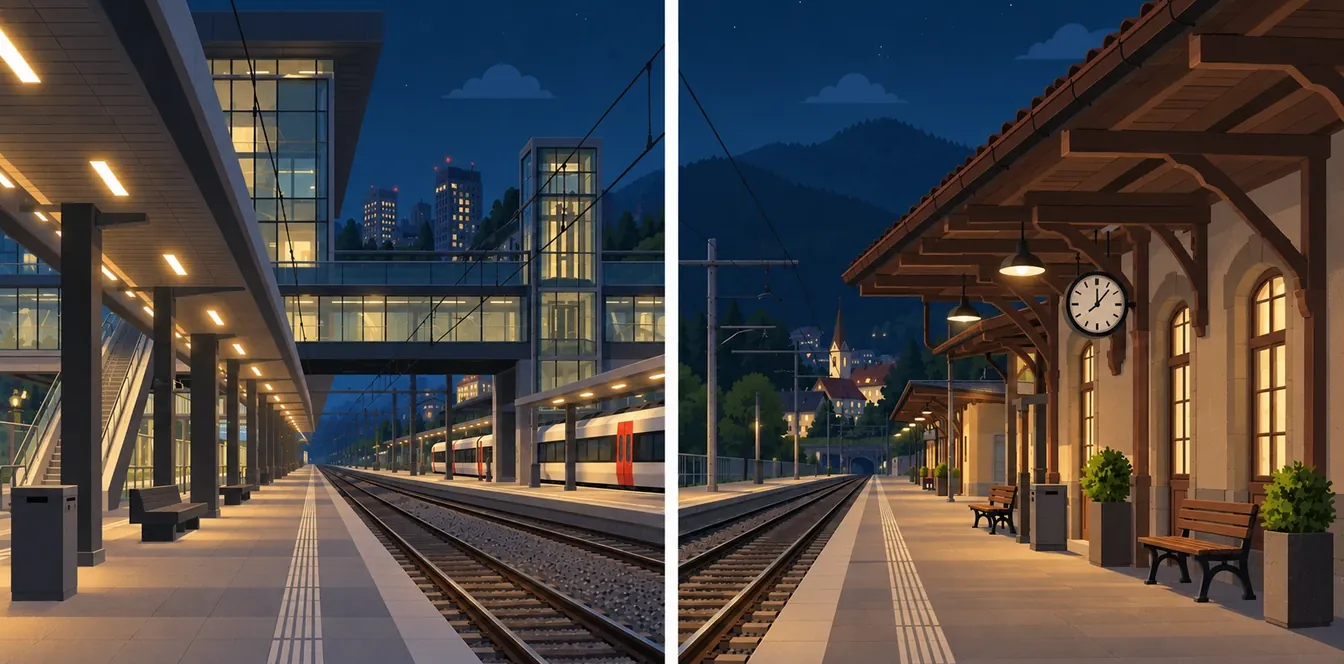
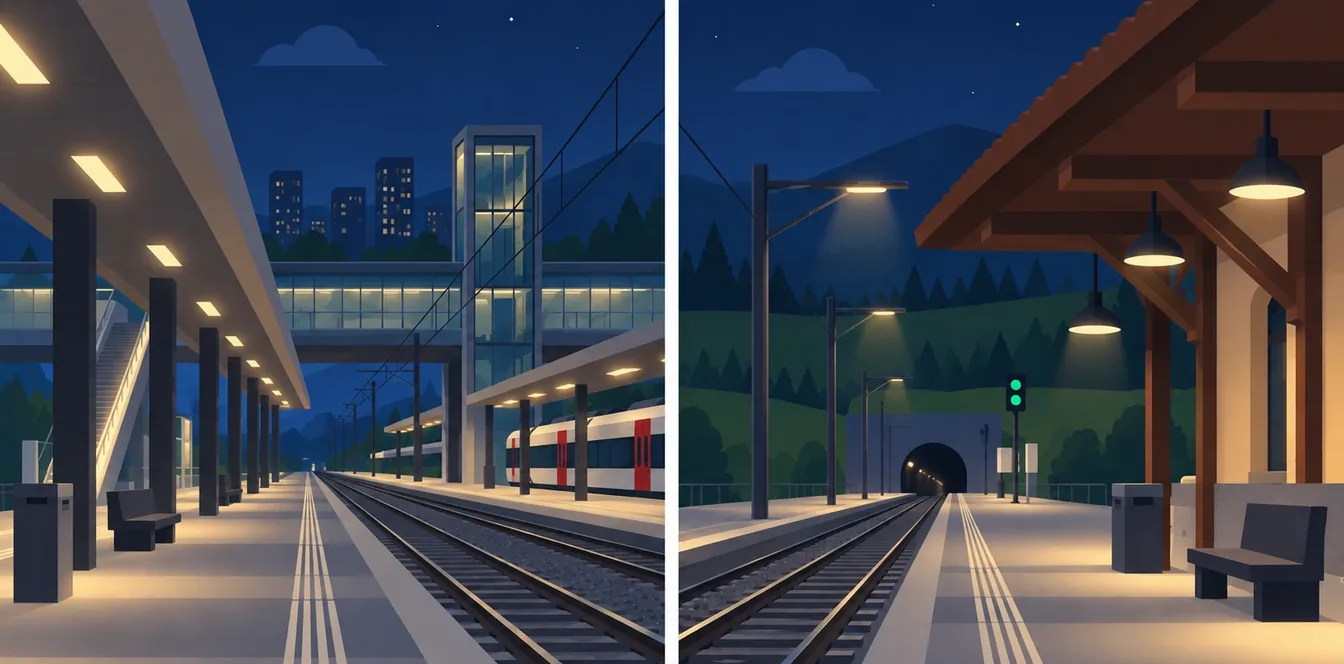
Neues Auftaktbild für das Duell, am Tag und in der Nacht
Auf 1344 × 664 wie die anderen: 1672 × 941 verkleinert, oben 32 und unten
60 Bildpunkte weg, beide Bilder gleich geschnitten.

diff --git a/app/src/komponenten/Kopf.tsx b/app/src/komponenten/Kopf.tsx
@@ -56,7 +56,7 @@ const BILDER: Partial<Record<Bereich | 'anleitung', AuftaktBild>> = {
   },
   duell: {
     hell: duellHell, dunkel: duellDunkel, breite: 1344, hoehe: 664,
-    alt: 'Illustration in zwei Hälften: links ein moderner Bahnhof aus Glas und Beton, rechts ein alter Bahnhof mit Holzdach und Bahnhofsuhr.',
+    alt: 'Illustration in zwei Hälften: links ein moderner Bahnhof mit Passerelle, Glaslift und Zug, rechts ein kleiner Bahnhof mit Holzdach vor einem Tunnel.',
   },
 }
 
